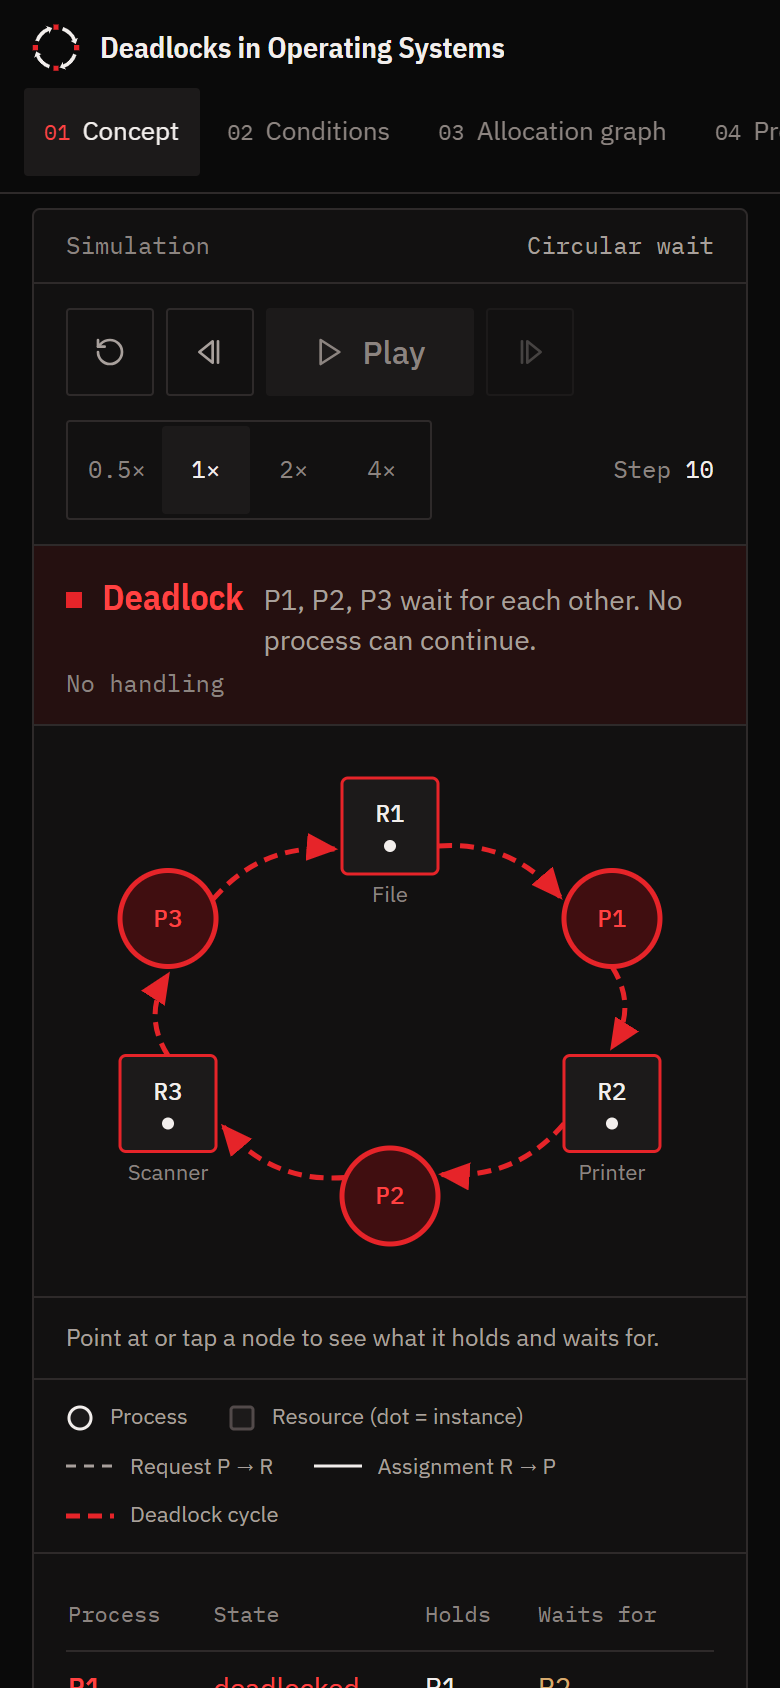
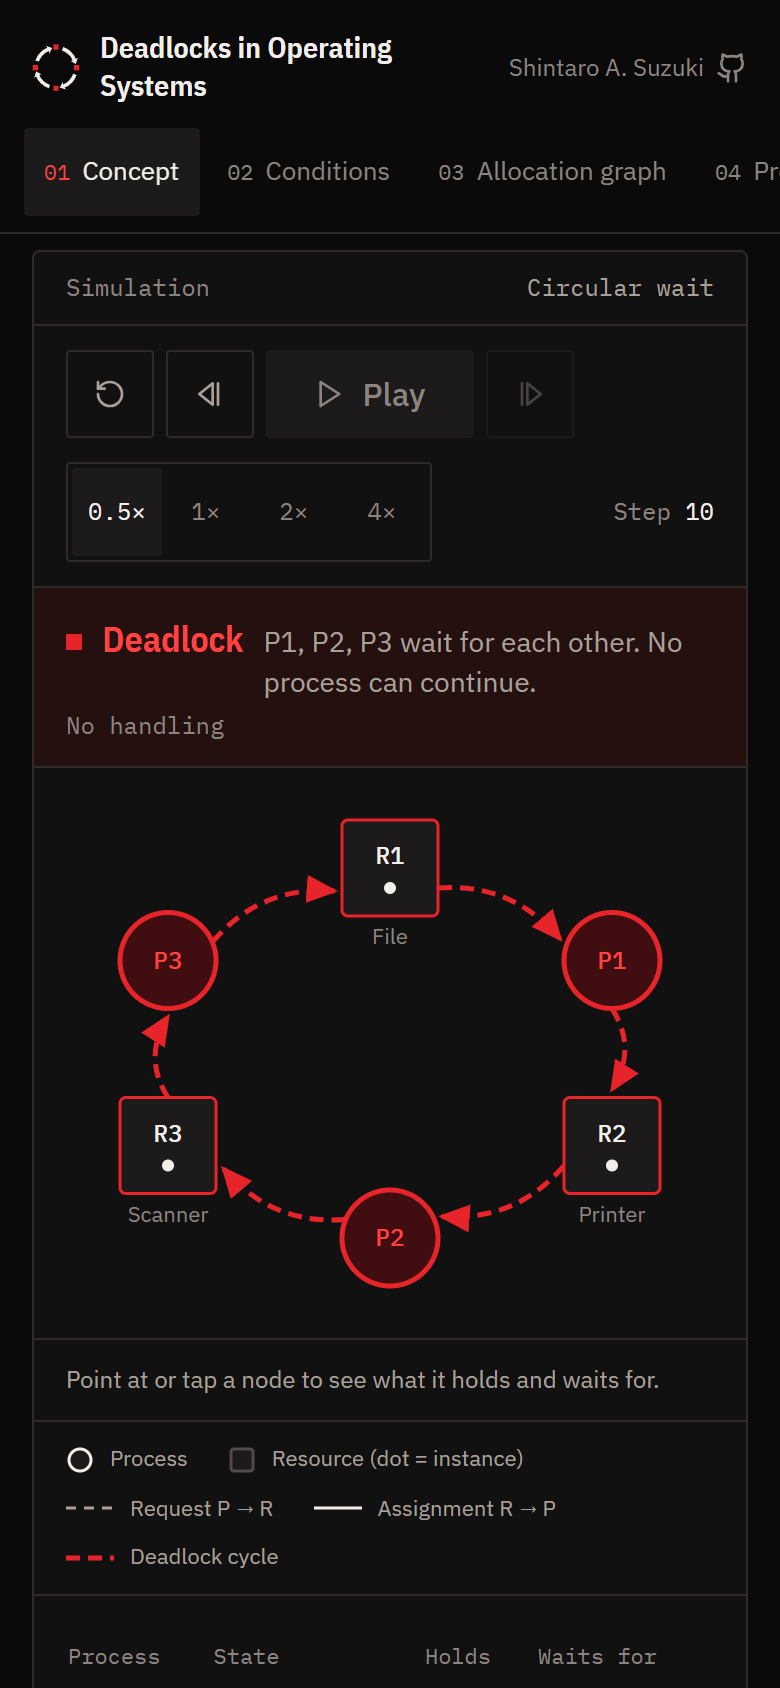
docs(readme): update phone screenshot with author credit

diff --git a/README.md b/README.md
@@ -82,7 +82,7 @@ These images come from the running app.
       <p><em>Chapter 07. Select a victim by priority, execution time, resource usage, or restart cost.</em></p>
     </td>
     <td width="50%" valign="top">
-      <img src="docs/screenshots/mobile.png" alt="Phone view: the chapter bar at the top and the chapter 01 demo at the deadlock.">
+      <img src="docs/screenshots/mobile.png" alt="Phone view: the top bar with the title, the author name, the GitHub link, and the chapter list, above the chapter 01 demo at the deadlock.">
       <p><em>Phone view. The chapter list moves to a bar at the top.</em></p>
     </td>
   </tr>
